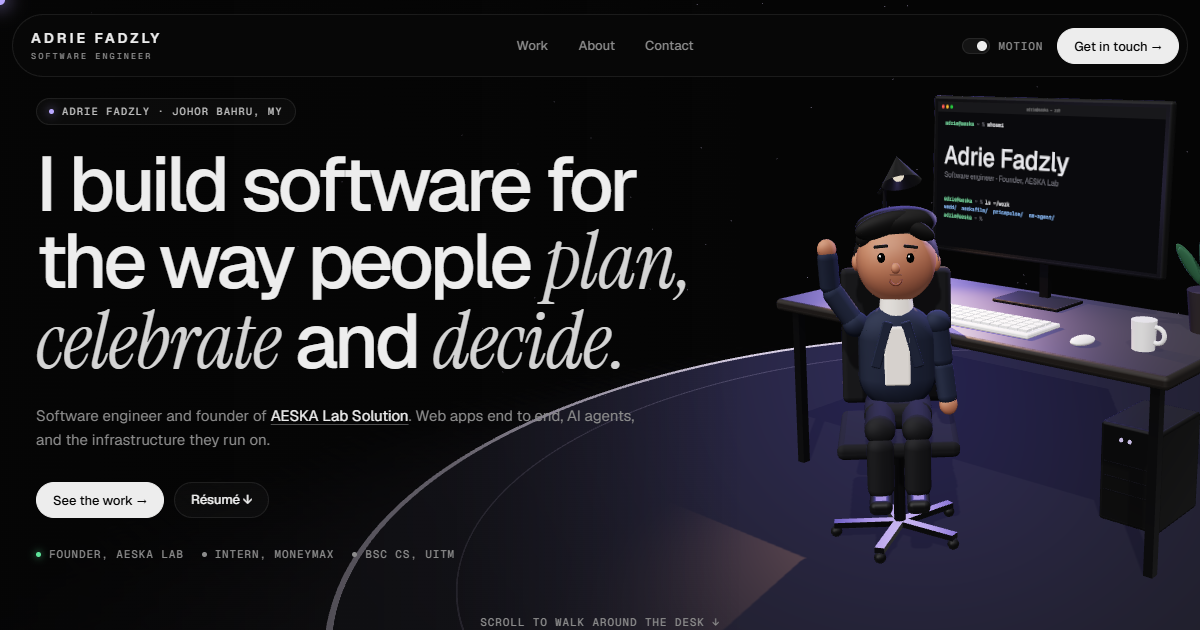
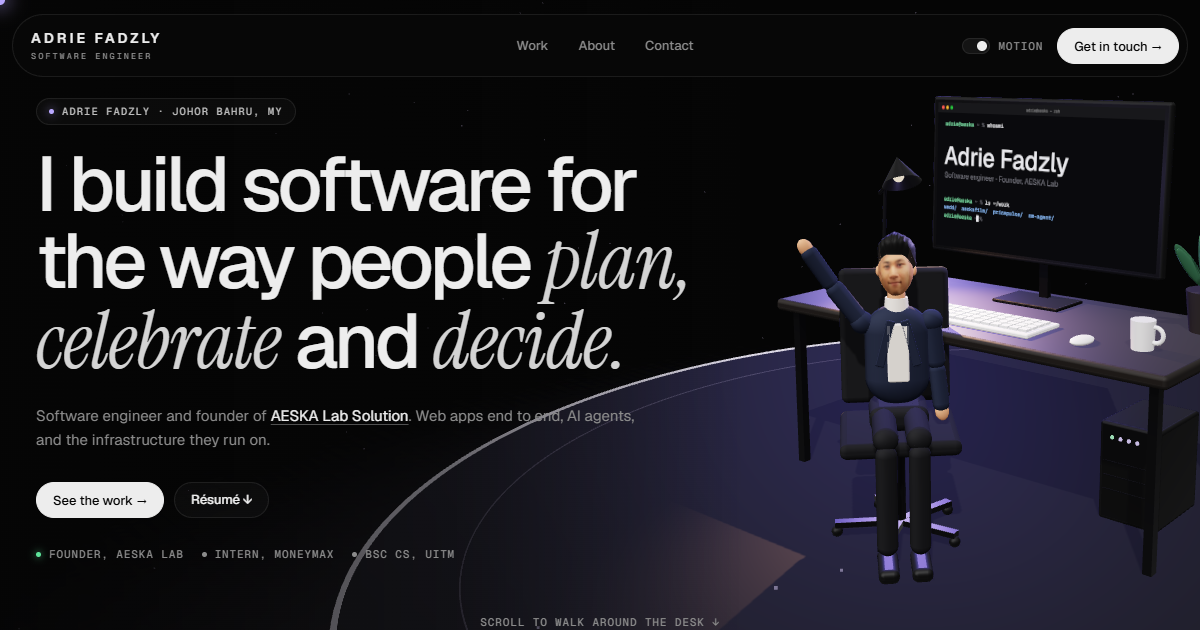
feat: rebuild the 3D character with Adrie's real face
Face texture cut from Me.jpg and projected onto a head sculpted to his
face shape (long, narrow, gentle jaw), warm golden skin sampled from the
photo. Hair is one sculpted mesh like his: full swept-back top, tapered
sides. Realistic proportions, feet on the floor.

diff --git a/assets/js/me.js b/assets/js/me.js
@@ -1,15 +1,16 @@
-/* A stylised 3D Adrie, built from primitives and coloured from images/Profile.jpg:
-   side-swept black hair, navy blazer over a cream turtleneck, dark trousers.
-   He sits in the desk chair facing local -z. Poses: "type" (hands on the keyboard) and
-   "wave" (spun round to the viewer). Head turns toward a look target; he blinks. */
+/* 3D Adrie. The face is his real face (images/me-face.webp, cut from images/Me.jpg) projected onto
+   a head sculpted to his face shape: slim oval, narrow jaw, light-medium warm skin. Hair matches his:
+   thick black volume swept up and back, shorter tapered sides. Outfit from images/Profile.jpg:
+   navy blazer over a cream turtleneck, dark trousers. He sits facing local -z.
+   Poses: "type" (hands on the keyboard) and "wave" (spun round to the viewer). */
 import * as THREE from "three";
 import { RoundedBoxGeometry } from "three/addons/geometries/RoundedBoxGeometry.js";
 
-const mat = (color, roughness = 0.7) => new THREE.MeshStandardMaterial({ color, roughness, metalness: 0, envMapIntensity: 0.4 });
+const SKIN = 0xd49466; // sampled from his cheeks and forehead in Me.jpg (warm-graded like the face texture)
+const mat = (color, roughness = 0.7, extra = {}) => new THREE.MeshStandardMaterial({ color, roughness, metalness: 0, envMapIntensity: 0.4, ...extra });
 const C = {
-	skin: mat(0xa86c4f, 0.6), lip: mat(0x7e4a38, 0.6), hair: mat(0x161514, 0.75), blazer: mat(0x232a3d, 0.85),
+	skin: mat(SKIN, 0.72), hair: mat(0xffffff, 0.55, { vertexColors: true }), blazer: mat(0x232a3d, 0.85),
 	shirt: mat(0xece2d0, 0.85), pants: mat(0x1b1b1d, 0.85), shoe: mat(0x0d0d0d, 0.45),
-	eye: new THREE.MeshBasicMaterial({ color: 0x0f0c0b }), shine: new THREE.MeshBasicMaterial({ color: 0xffffff }),
 };
 function part(geo, m, x, y, z, parent, sx = 1, sy = 1, sz = 1) {
 	const o = new THREE.Mesh(geo, m);
@@ -19,70 +20,105 @@ function part(geo, m, x, y, z, parent, sx = 1, sy = 1, sz = 1) {
 	return o;
 }
 const cap = (r, l) => new THREE.CapsuleGeometry(r, l, 6, 16);
-const ball = (r) => new THREE.SphereGeometry(r, 32, 24);
+const ball = (r, w = 32, h = 24) => new THREE.SphereGeometry(r, w, h);
+
+/* Head: a unit sphere sculpted into his face shape, with the photo projected onto the front.
+   UVs come from the undeformed sphere so the photo lines up: cheeks at X = ±0.85 → u 0.19–0.81,
+   hairline at Y = 0.55 → 20% from the top of the texture, chin at Y = -0.95 → 90%. */
+const HEAD = { w: 0.09, h: 0.134, d: 0.112 }; // his face is long and narrow
+function headGeometry() {
+	const g = new THREE.SphereGeometry(1, 64, 48);
+	const pos = g.attributes.position, uv = g.attributes.uv;
+	for (let i = 0; i < pos.count; i++) {
+		let x = pos.getX(i), y = pos.getY(i), z = pos.getZ(i);
+		const front = z < -0.12;
+		uv.setXY(i, front ? 0.5 + x * 0.39 : 0.03, front ? 1 - (0.2 + (0.55 - y) * 0.4667) : 0.5);
+		if (y < 0) { const t = Math.pow(-y, 1.8); x *= 1 - 0.16 * t; z *= 1 - 0.08 * t; } // oval face, jaw tapering gently to the chin
+		if (z < 0) {
+			z -= 0.1 * Math.exp(-((x / 0.16) ** 2 + ((y + 0.12) / 0.26) ** 2));                 // nose
+			z -= 0.03 * Math.exp(-(((Math.abs(x) - 0.5) / 0.22) ** 2 + ((y + 0.05) / 0.2) ** 2)); // cheekbones
+		}
+		pos.setXYZ(i, x * HEAD.w, y * HEAD.h, z * HEAD.d);
+	}
+	g.computeVertexNormals();
+	return g;
+}
+
+/* Hair: one smooth mesh over the head. A direction on the unit sphere is hidden (pulled inside the
+   head) below his hairline: high on the forehead, above the ears at the sides, at the nape at the back.
+   Above it the hair thickens toward the top, lifts at the front, and carries fine front-to-back grooves.
+   Vertex colours fade from black on top to a lighter taper on the short sides. */
+function hairGeometry() {
+	const g = new THREE.SphereGeometry(1, 160, 90, 0, Math.PI * 2, 0, Math.PI * 0.68);
+	const pos = g.attributes.position, colors = [];
+	const black = new THREE.Color(0x121110), taper = new THREE.Color(0x3a2e28), c = new THREE.Color();
+	const ss = (a, b, x) => { const t = Math.min(Math.max((x - a) / (b - a), 0), 1); return t * t * (3 - 2 * t); };
+	for (let i = 0; i < pos.count; i++) {
+		const x = pos.getX(i), y = pos.getY(i), z = pos.getZ(i);
+		const phi = Math.abs(Math.atan2(x, -z)); // 0 at the front, π/2 at the sides, π at the back
+		const hl = phi < 0.5 ? 0.5 : phi < Math.PI / 2 ? 0.5 - 0.52 * ss(0.5, Math.PI / 2, phi) : -0.02 - 0.5 * ((phi - Math.PI / 2) / (Math.PI / 2)); // straight across the forehead, down at the temples
+		const t = ss(hl, hl + 0.26, y); // rises from the hairline instead of hanging over it
+		const top = 0.34 * ss(0.25, 0.85, y) + 0.22 * ss(0.5, 0.9, y) * Math.exp(-((phi / 1.3) ** 2)) - 0.08 * x; // full, wide top with the quiff at the front
+		const groove = 1 + 0.035 * ss(0.3, 0.7, y) * Math.sin(x * 32 + z * 2); // soft parallel front-to-back grooves: swept back
+		// starts just inside the skin and rises through it, so the hairline is a smooth curve, not stair-steps
+		const thick = (0.06 + top) * t * groove; // full at the sides too
+		const r = t > 0 ? 0.975 + 0.06 * t + thick : 0.8, ry = t > 0 ? 0.975 + 0.06 * t + thick * 0.62 : 0.8; // below the hairline: tucked well inside the head
+		pos.setXYZ(i, x * r * HEAD.w, y * ry * HEAD.h, z * r * HEAD.d);
+		c.copy(taper).lerp(black, phi < 0.9 ? 1 : ss(hl + 0.05, hl + 0.45, y));
+		colors.push(c.r, c.g, c.b);
+	}
+	g.setAttribute("color", new THREE.Float32BufferAttribute(colors, 3));
+	g.computeVertexNormals();
+	return g;
+}
 
 export function buildMe(parent) {
 	const me = new THREE.Group(); parent.add(me);
 
-	// Legs (short, chibi: feet dangle above the floor)
-	part(new RoundedBoxGeometry(0.34, 0.14, 0.3, 3, 0.06), C.pants, 0, 0.68, 0.02, me);
+	// Legs: seated, feet on the floor
+	part(new RoundedBoxGeometry(0.3, 0.13, 0.28, 3, 0.05), C.pants, 0, 0.66, 0.02, me);
 	for (const s of [-1, 1]) {
-		const thigh = part(cap(0.075, 0.24), C.pants, s * 0.09, 0.68, -0.16, me); thigh.rotation.x = Math.PI / 2;
-		part(cap(0.065, 0.2), C.pants, s * 0.09, 0.5, -0.31, me);
-		part(new RoundedBoxGeometry(0.11, 0.07, 0.2, 3, 0.03), C.shoe, s * 0.09, 0.34, -0.35, me);
+		const thigh = part(cap(0.062, 0.34), C.pants, s * 0.08, 0.66, -0.2, me); thigh.rotation.x = Math.PI / 2;
+		part(cap(0.052, 0.46), C.pants, s * 0.08, 0.36, -0.4, me);
+		part(new RoundedBoxGeometry(0.1, 0.07, 0.25, 3, 0.03), C.shoe, s * 0.08, 0.035, -0.44, me);
 	}
 
 	// Torso pivots at the hips so he can lean
 	const torso = new THREE.Group(); torso.position.set(0, 0.72, 0.02); me.add(torso);
-	part(cap(0.17, 0.2), C.blazer, 0, 0.24, 0, torso, 1.15, 1, 0.78);
-	part(new RoundedBoxGeometry(0.13, 0.3, 0.03, 3, 0.014), C.shirt, 0, 0.27, -0.122, torso);
+	part(cap(0.14, 0.24), C.blazer, 0, 0.25, 0, torso, 1.18, 1, 0.74);
+	part(new RoundedBoxGeometry(0.11, 0.3, 0.03, 3, 0.012), C.shirt, 0, 0.28, -0.1, torso);
 	for (const s of [-1, 1]) { // lapels
-		const lapel = part(new RoundedBoxGeometry(0.05, 0.24, 0.02, 2, 0.008), C.blazer, s * 0.075, 0.33, -0.128, torso);
-		lapel.rotation.z = s * 0.28;
+		const lapel = part(new RoundedBoxGeometry(0.045, 0.24, 0.018, 2, 0.007), C.blazer, s * 0.064, 0.33, -0.106, torso);
+		lapel.rotation.z = s * 0.26;
 	}
-	part(new THREE.CylinderGeometry(0.08, 0.09, 0.1, 24), C.shirt, 0, 0.5, 0, torso);
+	part(new THREE.CylinderGeometry(0.058, 0.066, 0.09, 24), C.shirt, 0, 0.5, 0, torso); // turtleneck collar
 
 	// Arms: shoulder → elbow pivots
 	const arms = [-1, 1].map((s) => {
-		const shoulder = new THREE.Group(); shoulder.position.set(s * 0.205, 0.41, 0); torso.add(shoulder);
-		part(ball(0.065), C.blazer, 0, 0, 0, shoulder);
-		part(cap(0.055, 0.15), C.blazer, 0, -0.11, 0, shoulder);
-		const elbow = new THREE.Group(); elbow.position.set(0, -0.22, 0); shoulder.add(elbow);
-		part(cap(0.05, 0.14), C.blazer, 0, -0.09, 0, elbow);
-		part(ball(0.047), C.skin, 0, -0.205, 0, elbow, 1, 1.1, 0.85);
+		const shoulder = new THREE.Group(); shoulder.position.set(s * 0.175, 0.42, 0); torso.add(shoulder);
+		part(ball(0.058), C.blazer, 0, 0, 0, shoulder);
+		part(cap(0.048, 0.18), C.blazer, 0, -0.12, 0, shoulder);
+		const elbow = new THREE.Group(); elbow.position.set(0, -0.25, 0); shoulder.add(elbow);
+		part(cap(0.043, 0.17), C.blazer, 0, -0.1, 0, elbow);
+		part(ball(0.04), C.skin, 0, -0.225, 0, elbow, 0.9, 1.2, 0.7);
 		return { s, shoulder, elbow };
 	});
 
-	// Head
-	const neck = new THREE.Group(); neck.position.set(0, 0.55, 0); torso.add(neck);
-	const head = new THREE.Group(); neck.add(head);
-	part(ball(0.2), C.skin, 0, 0.18, 0, head, 1, 1.06, 0.98);
-	for (const s of [-1, 1]) part(ball(0.045), C.skin, s * 0.198, 0.17, 0.01, head, 0.55, 1, 0.8);
-	// Hair: a cap tilted back, volume on top swept to one side, short sides
-	const hairCap = part(new THREE.SphereGeometry(0.214, 40, 20, 0, Math.PI * 2, 0, Math.PI * 0.55), C.hair, 0, 0.19, 0.014, head);
-	hairCap.rotation.x = 0.78; // back and crown; the forehead stays clear
-	const tuft = (r, x, y, z, sx, sy, sz, rx, rz) => { const t = part(ball(r), C.hair, x, y, z, head, sx, sy, sz); t.rotation.set(rx, 0, rz); };
-	tuft(0.14, 0.0, 0.36, -0.02, 1.45, 0.62, 1.25, 0, -0.12);   // volume on top
-	tuft(0.1, 0.05, 0.35, -0.12, 1.55, 0.6, 0.85, 0.35, -0.32); // quiff swept to one side
-	tuft(0.075, -0.1, 0.33, -0.12, 1.3, 0.55, 0.8, 0.3, 0.45);  // the other side of the part
-	tuft(0.07, 0.13, 0.3, -0.05, 1.1, 0.8, 1.2, 0, -0.7);       // side volume
-	// Face
-	const eyes = [-1, 1].map((s) => {
-		const e = part(ball(0.019), C.eye, s * 0.07, 0.19, -0.188, head, 1, 1.3, 0.5);
-		part(ball(0.006), C.shine, s * 0.07 + 0.006, 0.198, -0.198, head);
-		const brow = part(new RoundedBoxGeometry(0.07, 0.015, 0.02, 2, 0.006), C.hair, s * 0.072, 0.245, -0.188, head);
-		brow.rotation.z = -s * 0.1;
-		return e;
-	});
-	part(ball(0.026), C.skin, 0, 0.14, -0.203, head, 0.85, 1, 0.9);
-	const mouth = part(new THREE.TorusGeometry(0.028, 0.005, 6, 18, Math.PI), C.lip, 0, 0.088, -0.188, head);
-	mouth.rotation.z = Math.PI;
-	part(new RoundedBoxGeometry(0.058, 0.006, 0.008, 1, 0.002), mat(0x7a4f3c), 0, 0.11, -0.191, head); // faint moustache
+	// Head on a neck
+	const neck = new THREE.Group(); neck.position.set(0, 0.53, 0); torso.add(neck);
+	part(new THREE.CylinderGeometry(0.042, 0.048, 0.08, 20), C.skin, 0, 0.04, 0, neck);
+	const head = new THREE.Group(); head.position.y = 0.155; neck.add(head);
+	const faceTex = new THREE.TextureLoader().load("/images/me-face.webp");
+	faceTex.colorSpace = THREE.SRGBColorSpace; faceTex.anisotropy = 8;
+	part(headGeometry(), mat(0xffffff, 0.75, { map: faceTex }), 0, 0, 0, head);
+	for (const s of [-1, 1]) part(ball(0.026, 16, 12), C.skin, s * 0.092, -0.005, 0.012, head, 0.45, 1, 0.75); // ears
 
-	return { me, torso, arms, neck, head, eyes, blinkIn: 2.5, wave: 0, look: new THREE.Vector3() };
+	part(hairGeometry(), C.hair, 0, 0, 0, head); // one sculpted mesh: short tapered sides, volume on top
+
+	return { me, torso, arms, neck, head, wave: 0, look: new THREE.Vector3() };
 }
 
-const TYPE = { sx: 1.12, sz: 0.16, ex: 0.62 };
+const TYPE = { sx: 1.05, sz: 0.14, ex: 0.75 };
 const lerp = (a, b, k) => a + (b - a) * k;
 
 /* pose: "type" | "wave"; lookAt: world point the head should turn toward */
@@ -91,13 +127,13 @@ export function updateMe(rig, pose, dt, t, lookAt) {
 	rig.wave = lerp(rig.wave, pose === "wave" ? 1 : 0, k);
 	const w = rig.wave;
 
-	rig.torso.rotation.x = lerp(-0.14, 0.04, w) + Math.sin(t * 1.6) * 0.01; // breathe
+	rig.torso.rotation.x = lerp(-0.12, 0.03, w) + Math.sin(t * 1.6) * 0.008; // breathe
 	for (const { s, shoulder, elbow } of rig.arms) {
 		const waving = s === 1 ? w : 0;
 		const tap = Math.sin(t * 13 + s * 1.7) * 0.05 * (1 - w);
 		shoulder.rotation.x = lerp(TYPE.sx + tap, 0, w);
-		shoulder.rotation.z = lerp(-s * TYPE.sz, s === 1 ? 2.55 : -0.12, s === 1 ? waving : w);
-		elbow.rotation.x = lerp(TYPE.ex + tap * 1.4, 0.2, w);
+		shoulder.rotation.z = lerp(-s * TYPE.sz, s === 1 ? 2.5 : -0.1, s === 1 ? waving : w);
+		elbow.rotation.x = lerp(TYPE.ex + tap * 1.4, 0.15, w);
 		elbow.rotation.z = waving * (0.35 + Math.sin(t * 9) * 0.45);
 	}
 
@@ -105,15 +141,8 @@ export function updateMe(rig, pose, dt, t, lookAt) {
 	rig.head.parent.updateWorldMatrix(true, false);
 	const local = rig.head.parent.worldToLocal(rig.look.copy(lookAt));
 	const yaw = THREE.MathUtils.clamp(Math.atan2(-local.x, -local.z), -1.0, 1.0);
-	const pitch = THREE.MathUtils.clamp(Math.atan2(local.y - 0.18, Math.hypot(local.x, local.z)), -0.35, 0.4);
+	const pitch = THREE.MathUtils.clamp(Math.atan2(local.y - 0.17, Math.hypot(local.x, local.z)), -0.35, 0.4);
 	rig.head.rotation.y = lerp(rig.head.rotation.y, yaw, k * 0.6);
 	rig.head.rotation.x = lerp(rig.head.rotation.x, pitch, k * 0.6);
-	rig.head.rotation.z = Math.sin(t * 0.9) * 0.03 + w * Math.sin(t * 4.5) * 0.05;
-
-	// Blink (only while animating; a still frame keeps the eyes open)
-	if (dt > 0.5) return;
-	rig.blinkIn -= dt;
-	const closed = rig.blinkIn < 0.12;
-	for (const e of rig.eyes) e.scale.y = closed ? 0.15 : 1.25;
-	if (rig.blinkIn < 0) rig.blinkIn = 2 + Math.random() * 3;
+	rig.head.rotation.z = Math.sin(t * 0.9) * 0.025 + w * Math.sin(t * 4.5) * 0.04;
 }

diff --git a/README.md b/README.md
@@ -16,11 +16,12 @@ work/pricepulse/           # case study: chart inspector + evaluation
 assets/css/site.css        # tokens, pill nav, cursor, work rows + hover preview, footer, case study pages
 assets/css/home.css        # home only: scene layer, loader, sections, cards, timeline
 assets/js/scene.js         # home 3D scene (Three.js r160): desk, monitor screens, camera shots, tech balls
-assets/js/me.js            # the stylised 3D Adrie (from images/Profile.jpg): types, spins round, waves, blinks
+assets/js/me.js            # 3D Adrie: his real face (images/me-face.webp) on a sculpted head, his hair, his outfit
 assets/js/site.js          # motion switch, clock, cursor + work preview, copy, tabs, strip, inspector
 assets/js/motion.js        # Lenis smooth scroll + GSAP ScrollTrigger (headline rise, row slide, footer mark)
 assets/favicon.svg
-images/portrait.webp       # about portrait (cropped from images/Me.jpg)
+images/me-face.webp        # face texture for the 3D character (from images/Me.jpg)
+images/portrait.webp       # portrait (cropped from images/Me.jpg)
 images/pricepulse/         # screenshots from the public PricePulse demo (synthetic data)
 images/og/                 # 1200x630 share images, one per page
 ```
@@ -34,8 +35,10 @@ images/og/                 # 1200x630 share images, one per page
   scrolling blends between them. The monitor redraws per section (terminal, code, Wedd, AeskaFilm,
   the PricePulse dashboard, git log, stack, SM Agent, an email). In the stack section the tech balls
   drop onto the platform and react to the pointer.
-- The character is built from primitives and coloured from `images/Profile.jpg`. He types at the desk,
-  turns round to wave in the hero and contact shots, follows the camera with his head, and blinks.
+- The character uses Adrie's real face: `images/me-face.webp` is cut from `images/Me.jpg`, warm-graded,
+  and projected onto a head sculpted to his face shape. Hair is one sculpted mesh matching his (full,
+  swept-back top, tapered sides); outfit from `images/Profile.jpg`. He types at the desk, turns round
+  to wave in the hero and contact shots, and follows the camera with his head.
 - Without WebGL the page shows a gradient fallback and the stack as text chips.
 - Motion: the Motion switch (top bar and footer) is saved in `localStorage`; the OS reduced-motion
   setting turns it off by default. With motion off the scene still renders, but as still frames.
